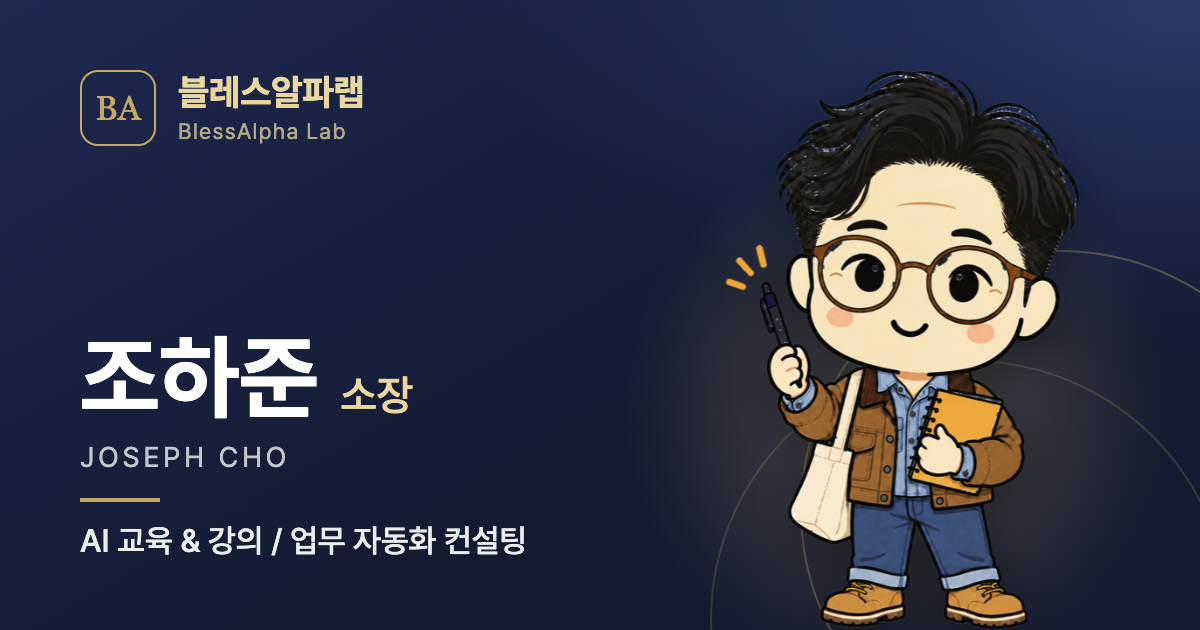
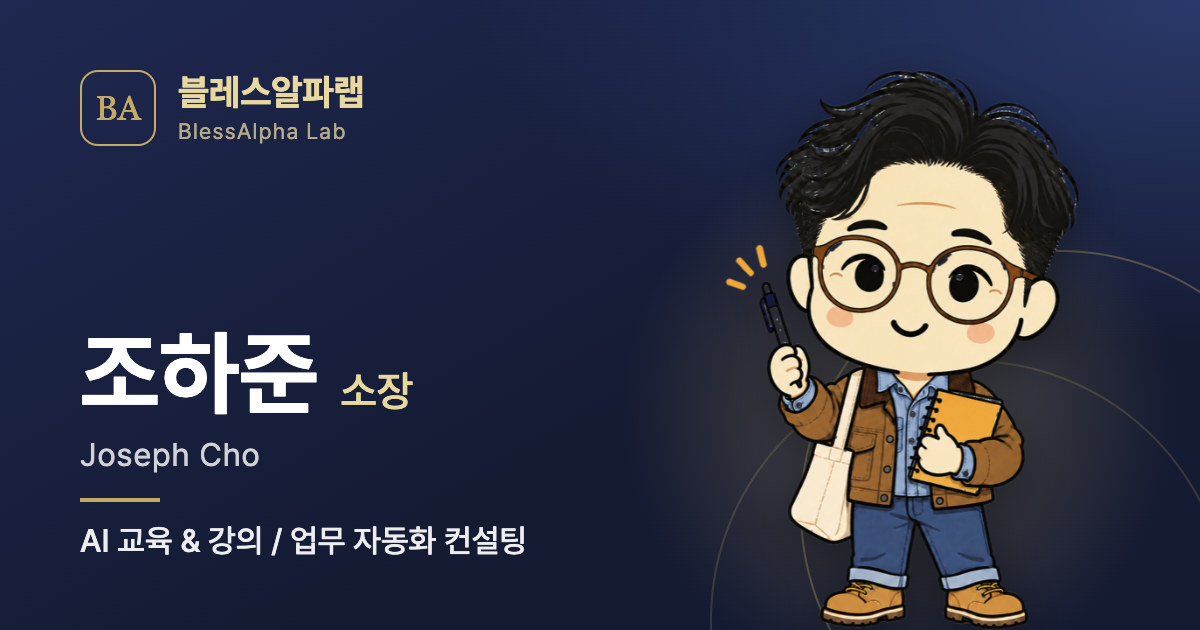
영문 이름 JOSEPH CHO → Joseph Cho

Changed region(s): [[0.0617, 0.5127, 0.3392, 0.6635], [0.0617, 0.6937, 0.2467, 0.754]]

diff --git a/index.html b/index.html
@@ -9,7 +9,7 @@
 <meta property="og:title" content="조하준 소장 | 블레스알파랩 BlessAlpha Lab">
 <meta property="og:description" content="AI 교육 &amp; 강의 / 업무 자동화 컨설팅 · 눌러서 연락처 저장">
 <meta property="og:url" content="https://blessalpha.com/card/">
-<meta property="og:image" content="https://blessalpha.com/card/og.png?v=5">
+<meta property="og:image" content="https://blessalpha.com/card/og.png?v=6">
 <meta property="og:image:width" content="1200">
 <meta property="og:image:height" content="630">
 <meta name="twitter:card" content="summary_large_image">
@@ -35,7 +35,7 @@
   .who{position:relative;z-index:2;max-width:60%}
   .name{font-size:29px;font-weight:700;letter-spacing:-.01em;display:flex;align-items:baseline;gap:8px;white-space:nowrap}
   .name small{font-size:16px;font-weight:500;color:var(--gold2)}
-  .en{margin-top:3px;font-size:13px;letter-spacing:.12em;color:rgba(255,255,255,.72);text-transform:uppercase}
+  .en{margin-top:3px;font-size:14px;letter-spacing:.04em;color:rgba(255,255,255,.78)}
   .bar{width:36px;height:2px;background:var(--gold);margin:12px 0 10px}
   .tag{font-size:13px;line-height:1.5;color:rgba(255,255,255,.88);font-weight:500}
   .actions{display:grid;grid-template-columns:repeat(4,1fr);gap:10px;margin:18px 0 12px}
